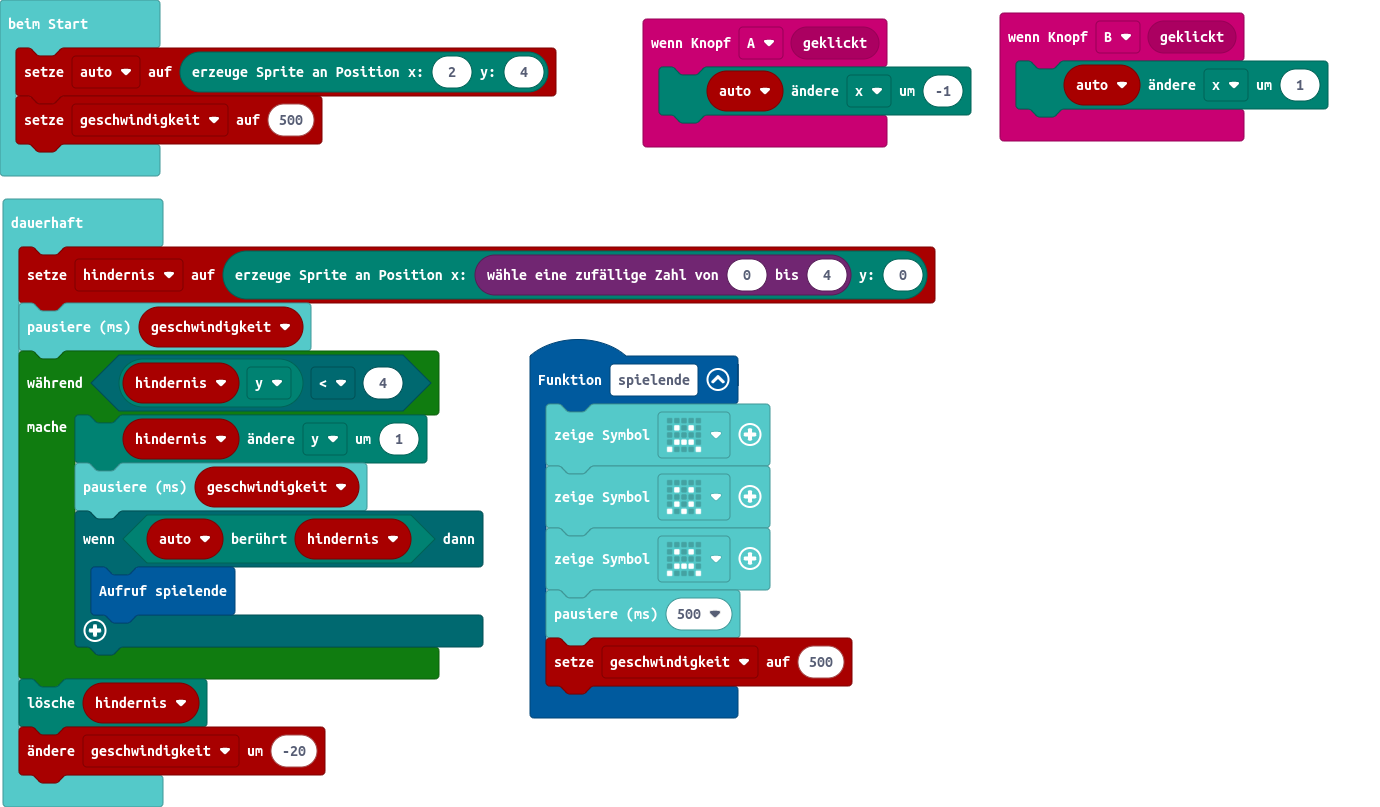
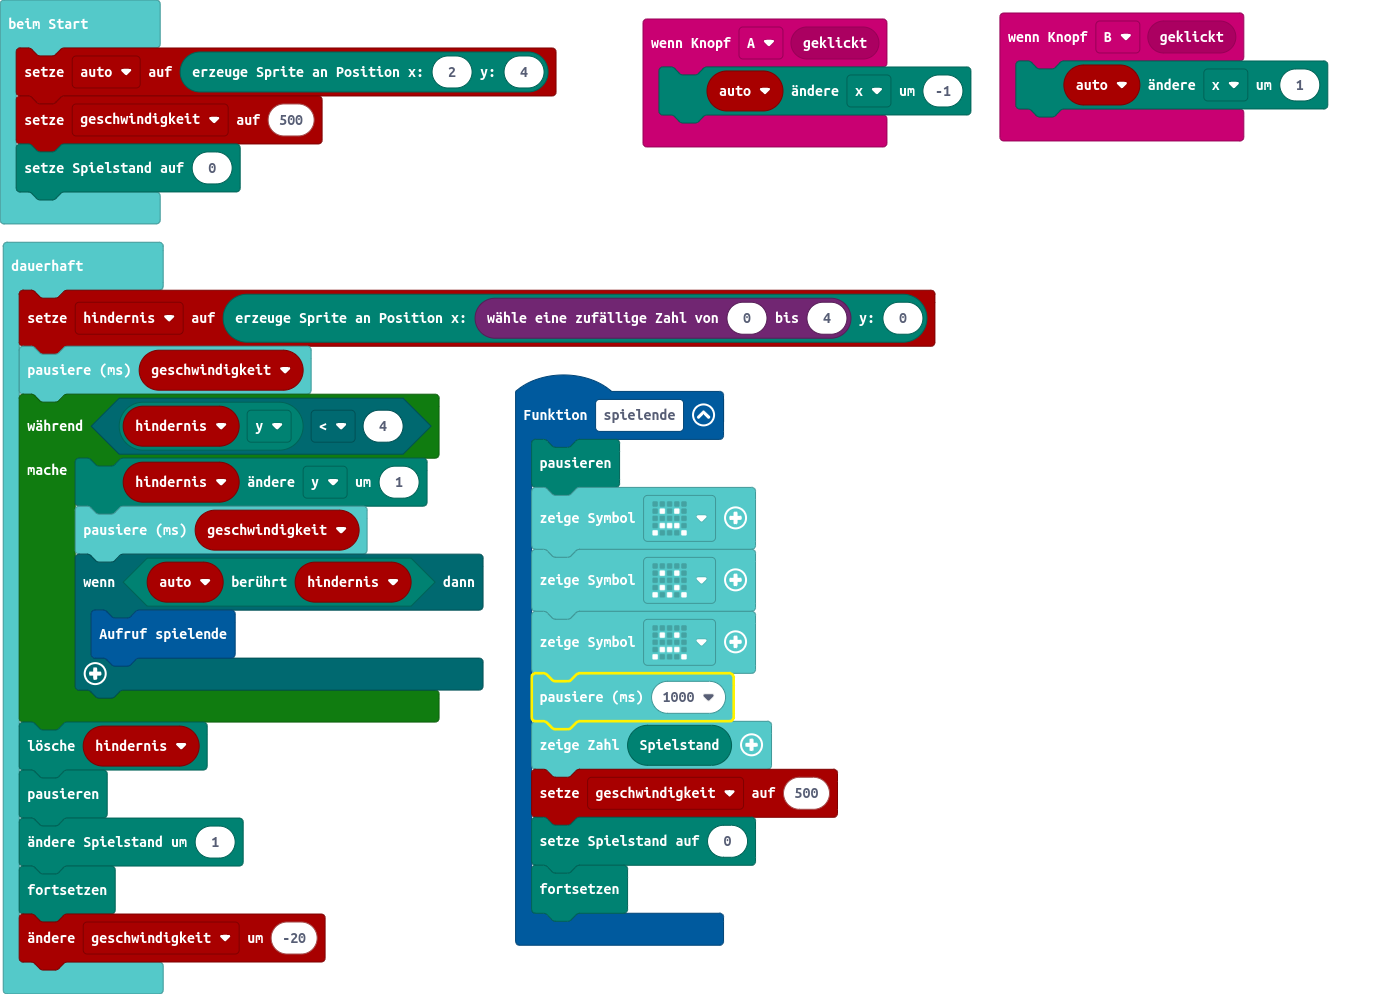
Aktualisiere main.blocks, main.ts

diff --git a/main.ts b/main.ts
@@ -2,11 +2,15 @@ input.onButtonEvent(Button.A, input.buttonEventClick(), function () {
     auto.change(LedSpriteProperty.X, -1)
 })
 function spielende () {
+    game.pause()
     basic.showIcon(IconNames.Sad)
     basic.showIcon(IconNames.Confused)
     basic.showIcon(IconNames.Sad)
-    basic.pause(500)
+    basic.pause(1000)
+    basic.showNumber(game.score())
     geschwindigkeit = 500
+    game.setScore(0)
+    game.resume()
 }
 input.onButtonEvent(Button.B, input.buttonEventClick(), function () {
     auto.change(LedSpriteProperty.X, 1)
@@ -16,6 +20,7 @@ let geschwindigkeit = 0
 let auto: game.LedSprite = null
 auto = game.createSprite(2, 4)
 geschwindigkeit = 500
+game.setScore(0)
 basic.forever(function () {
     hindernis = game.createSprite(randint(0, 4), 0)
     basic.pause(geschwindigkeit)
@@ -27,5 +32,8 @@ basic.forever(function () {
         }
     }
     hindernis.delete()
+    game.pause()
+    game.addScore(1)
+    game.resume()
     geschwindigkeit += -20
 })
